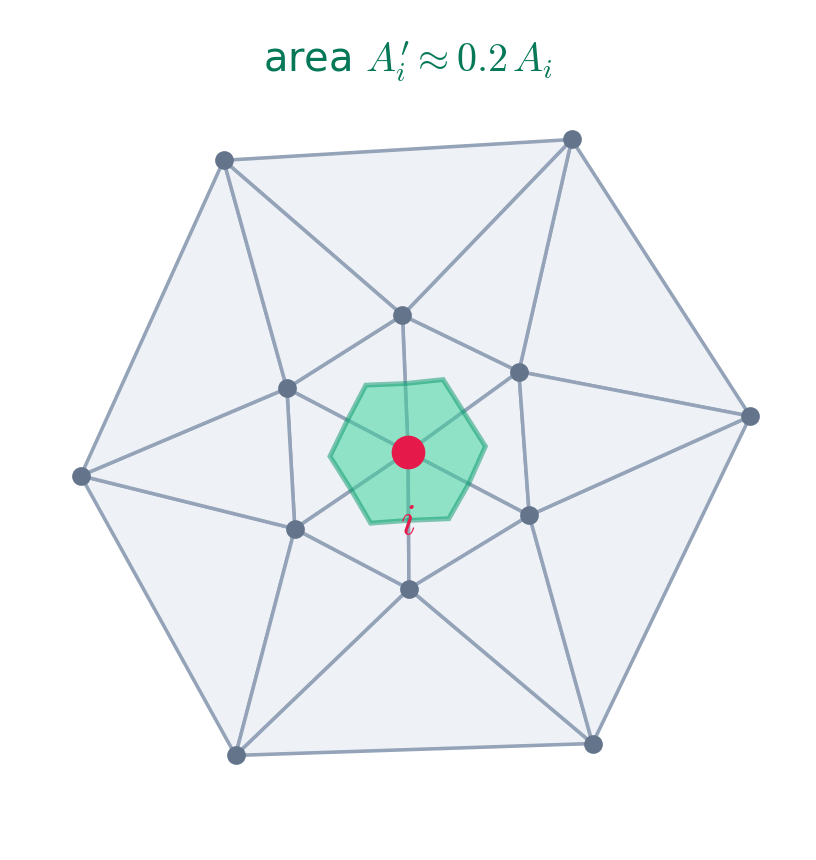
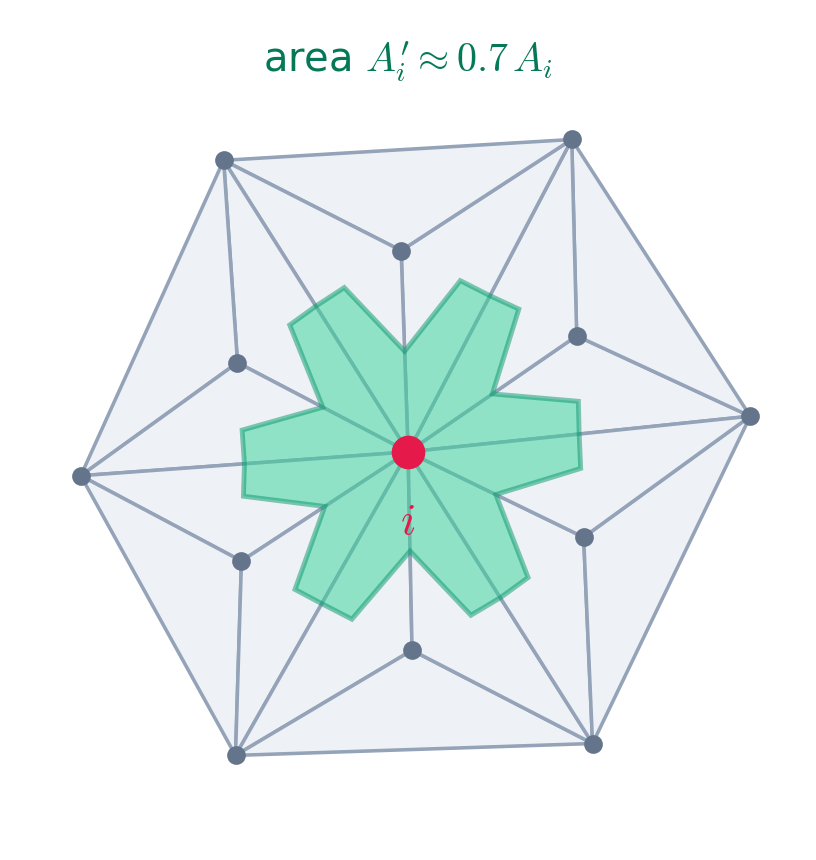
Slide 27: refine the right cell by a 1-to-3 centroid split (no Delaunay)
Middle panel = plain 1-ring fan; right panel adds each triangle's centroid and
splits it into three, keeping i fixed — a more natural-looking refinement
(A_i' ≈ 0.7 A_i).

Changed region(s): [[0.0919, 0.1512, 0.9191, 0.8767], [0.5821, 0.0605, 0.6434, 0.0907]]

diff --git a/gen/gen_28_assembly.py b/gen/gen_28_assembly.py
@@ -180,15 +180,14 @@ def build_sampling():
 
 
 def build_mass_compare():
-    """Same vertex i: a 1-ring cell vs. a Delaunay-refined cell (smaller area)."""
-    from scipy.spatial import Delaunay
+    """Same vertex i: the 1-ring fan vs. a 1-to-3 split (centroid per triangle)."""
 
     def cell_poly(P, tris, vi):
         pts = []
         for t in tris:
             if vi not in t:
                 continue
-            cen = P[t].mean(0)
+            cen = P[list(t)].mean(0)
             for a in t:
                 if a != vi:
                     pts.append((P[vi] + P[a]) / 2)
@@ -200,20 +199,26 @@ def build_mass_compare():
         area = 0.5 * abs(np.dot(x, np.roll(y, -1)) - np.dot(y, np.roll(x, -1)))
         return poly, area
 
-    ang_out = np.arctan2(RING[:, 1], RING[:, 0])
-    inner = np.array([[0.46 * np.cos(a + np.pi / 6), 0.46 * np.sin(a + np.pi / 6)]
-                      for a in ang_out])
+    # middle: the plain 1-ring fan (i = index 0, neighbours 1..6)
     Pc = np.vstack([I, RING])
-    Pf = np.vstack([I, RING, inner])
-    tc = Delaunay(Pc).simplices
-    tf = Delaunay(Pf).simplices
+    n = len(RING)
+    tc = [(0, 1 + k, 1 + (k + 1) % n) for k in range(n)]
+
+    # right: add each triangle's centroid and split it into 3 (i kept in place)
+    cents = np.array([Pc[list(t)].mean(0) for t in tc])
+    Pf = np.vstack([Pc, cents])
+    tf = []
+    for k, (o, a, b) in enumerate(tc):
+        c = 1 + n + k
+        tf += [(o, a, c), (a, b, c), (b, o, c)]
+
     _, area_c = cell_poly(Pc, tc, 0)
 
     def render(P, tris, out, label):
         polyc, area = cell_poly(P, tris, 0)
         fig, ax = plt.subplots(figsize=(5.6, 5.6))
         for t in tris:
-            ax.add_patch(Polygon(P[t], closed=True, facecolor=FILL,
+            ax.add_patch(Polygon(P[list(t)], closed=True, facecolor=FILL,
                                  edgecolor=EDGE, lw=1.6, zorder=1))
         ax.add_patch(Polygon(polyc, closed=True, facecolor="#34d399",
                              edgecolor="#059669", lw=2.2, alpha=0.5, zorder=3))

diff --git a/slides.md b/slides.md
@@ -1388,7 +1388,7 @@ $S$ sums over that cell, so $(Sf)_i \propto A_i$ — it grows with sampling dens
 
 <div v-click="1">
 
-Re-triangulate near $i$ → the cell shrinks ($A_i'\approx 0.2\,A_i$), and $S$ changes too.
+Re-triangulate near $i$ → the cell shrinks ($A_i'\approx 0.7\,A_i$), and $S$ changes too.
 
 </div>
 
